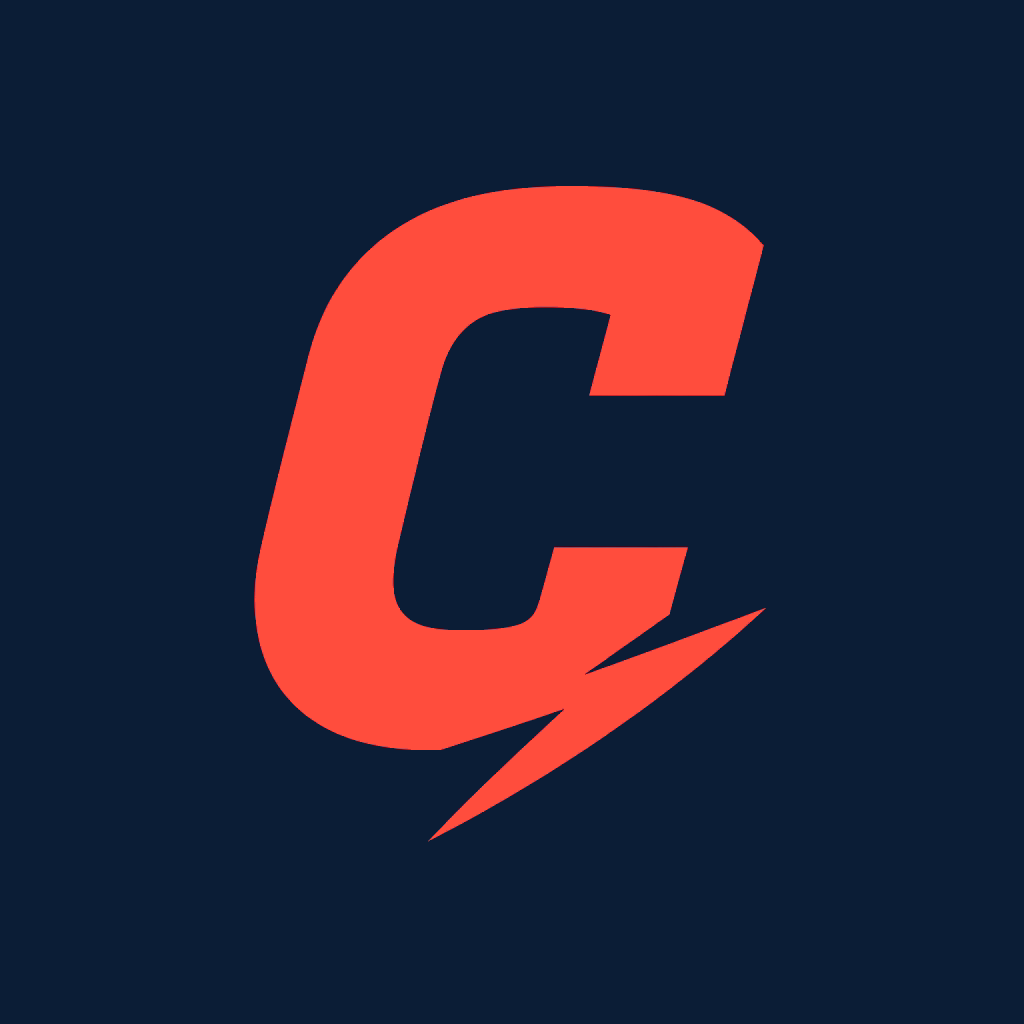
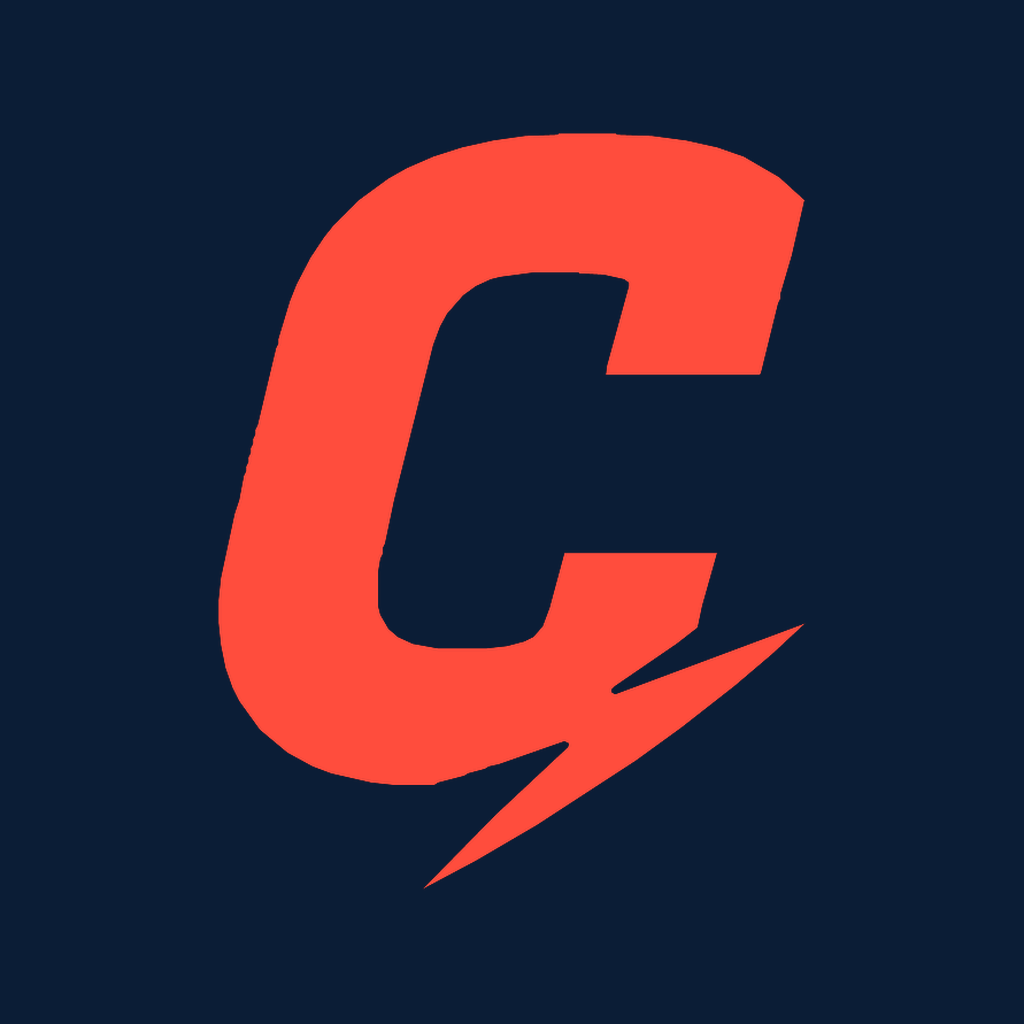
fix(brand): redesign CueLift slash-tail C for crisp edges
Replace muddy ringed/soft raster marks with a sharper italic C +
lightning slash at exact #FF4D3D on navy/transparent, add SVG source,
and regenerate Flutter, Android, and iOS launcher/splash densities.

Changed region(s): [[0.1875, 0.125, 0.7812, 0.875]]

diff --git a/docs/design-system.md b/docs/design-system.md
@@ -6,7 +6,7 @@ Brand identity and UI tokens for the gym app. Product name: **CueLift**.
 
 Primary identity is the **Welcome-style brand stack**:
 
-1. Slash-tail **C** mark (coral `#FF4D3D` on transparent; sits on navy field)
+1. Slash-tail **C** mark (coral `#FF4D3D` on transparent; sits on navy field) — italic monogram with a sharp lightning slash fused into the lower terminal
 2. Wordmark **CueLift** — `Cue` white / `Lift` coral (same hex; transparent PNG)
 3. One line: *Your training assistant* — Flutter `Text` under the artwork (not baked into the bitmap)
 
@@ -15,11 +15,13 @@ Primary identity is the **Welcome-style brand stack**:
 | Welcome / splash | Full Welcome stack on navy `#0B1D36` (always — light or dark preference does not change this) |
 | Plans app bar | Small coral C (`cuelift-mark-light`) + screen title |
 | Live workout | No logo; coral only on primary actions |
-| Launcher icon | Slash-tail C on navy |
+| Launcher icon | Slash-tail C on full-bleed navy (no ring, disc, or light halo) |
 
 ### Logo rules
 
-- Keep the slash-tail angle fixed.
+- Keep the slash-tail angle fixed; the bolt is one continuous path with the C, not a separate sticker.
+- Prefer the vector source `cuelift-mark.svg` when regenerating bitmaps; export at native density so edges stay crisp.
+- No circular frame, white disc, or off-white fringe around the mark — navy field or transparent only.
 - Do not stretch, outline, or recolor `Lift` to white on the navy lockup.
 - Clear space around the mark ≈ the C stroke width.
 
@@ -115,11 +117,12 @@ No glow pulses.
 
 | File | Use |
 |---|---|
+| `assets/image/brand/cuelift-mark.svg` | Vector source for the slash-tail C (coral path) |
 | `assets/image/brand/cuelift-welcome.png` | Welcome / splash mark + wordmark (transparent; no tagline) |
-| `assets/image/brand/cuelift-icon.png` | Launcher / splash mark source (coral C on navy) |
+| `assets/image/brand/cuelift-icon.png` | Launcher / splash mark source (coral C on navy `#0B1D36`) |
 | `assets/image/brand/cuelift-mark-light.png` | App-bar / surface chrome (coral C on transparent) |
 
-Platform launcher icons and iOS launch images are generated from `cuelift-icon.png`.
+Platform launcher icons and iOS launch images are generated from `cuelift-icon.png` / `cuelift-mark-light.png` at each density. Colors must stay exact `#FF4D3D` / `#0B1D36`.
 
 ## Implementation map
 
